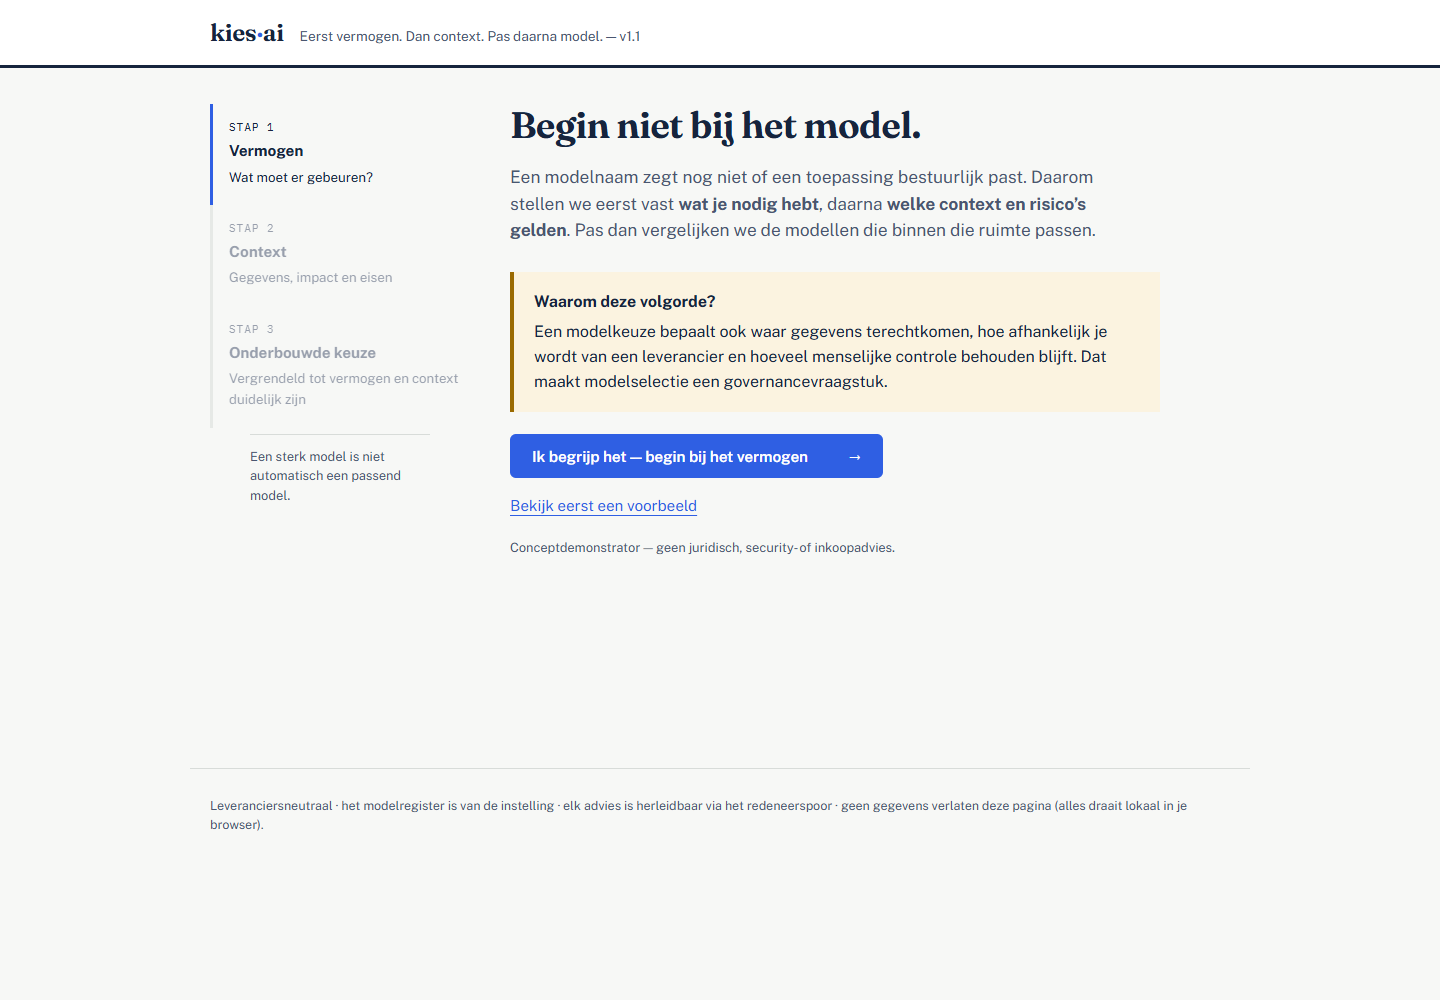
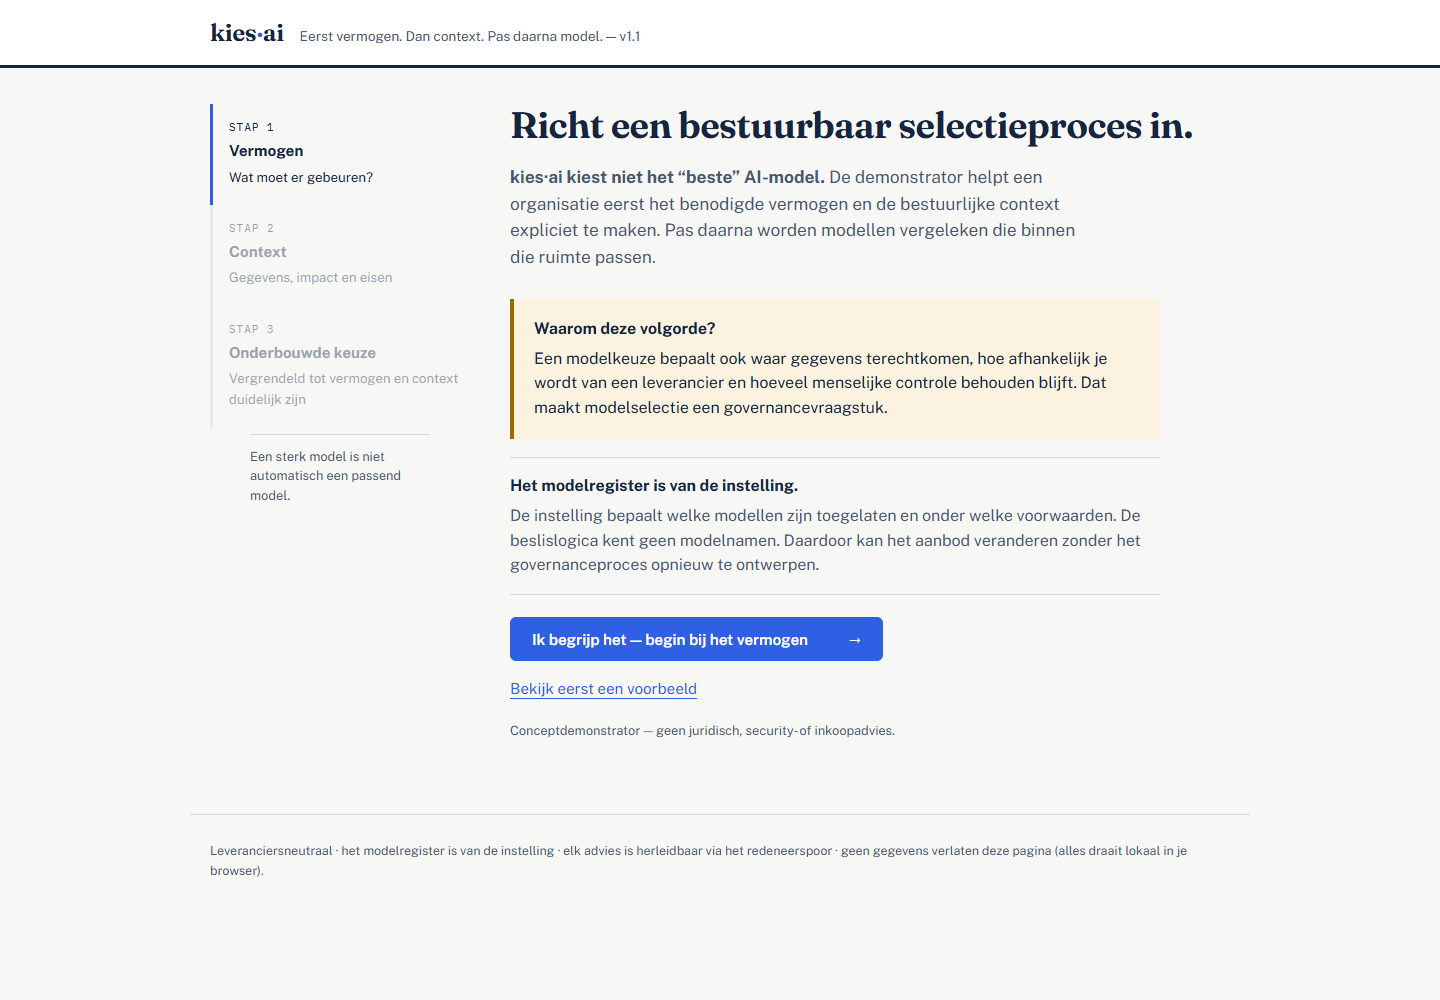
Clarify kies-ai as a governance instrument

Changed region(s): [[0.3438, 0.093, 0.8438, 0.744], [0.125, 0.806, 0.8125, 0.899]]

diff --git a/app.js b/app.js
@@ -62,7 +62,7 @@
   };
 
   function reset() {
-    Object.assign(state, { started: true, domain: null, capability: null, answers: {} });
+    Object.assign(state, { started: true, domain: null, capability: null, answers: {}, showModels: false });
     render();
   }
 
@@ -103,11 +103,15 @@
   function screenIntro() {
     return `
       <div class="onboarding">
-        <h1>Begin niet bij het model.</h1>
-        <p class="lede">Een modelnaam zegt nog niet of een toepassing bestuurlijk past. Daarom stellen we eerst vast <strong>wat je nodig hebt</strong>, daarna <strong>welke context en risico’s gelden</strong>. Pas dan vergelijken we de modellen die binnen die ruimte passen.</p>
+        <h1>Richt een bestuurbaar selectieproces in.</h1>
+        <p class="lede"><strong>kies·ai kiest niet het “beste” AI-model.</strong> De demonstrator helpt een organisatie eerst het benodigde vermogen en de bestuurlijke context expliciet te maken. Pas daarna worden modellen vergeleken die binnen die ruimte passen.</p>
         <section class="learning-band" aria-label="Ontwerpprincipe">
           <strong>Waarom deze volgorde?</strong>
           <p>Een modelkeuze bepaalt ook waar gegevens terechtkomen, hoe afhankelijk je wordt van een leverancier en hoeveel menselijke controle behouden blijft. Dat maakt modelselectie een governancevraagstuk.</p>
+        </section>
+        <section class="register-band">
+          <strong>Het modelregister is van de instelling.</strong>
+          <p>De instelling bepaalt welke modellen zijn toegelaten en onder welke voorwaarden. De beslislogica kent geen modelnamen. Daardoor kan het aanbod veranderen zonder het governanceproces opnieuw te ontwerpen.</p>
         </section>
         ${regErrors.length ? `<div class="warn" role="alert"><strong>Het modelregister kan niet betrouwbaar worden gebruikt.</strong><br>${safe(regErrors[0])} Neem contact op met de registerbeheerder.</div>` : ""}
         <button class="btn-primary btn-large" data-action="start">Ik begrijp het — begin bij het vermogen <span aria-hidden="true">→</span></button>
@@ -201,6 +205,30 @@
       </section>`;
   }
 
+  function modelExplanation(out) {
+    const eliminated = new Map();
+    out.eliminated.forEach((item) => {
+      if (!eliminated.has(item.model)) eliminated.set(item.model, []);
+      eliminated.get(item.model).push(item.reason);
+    });
+    const rows = R.models.map((model) => {
+      if (model.id === out.recommended.model.id) {
+        return `<li><strong>${safe(model.name)}</strong><p>Dit model staat bovenaan binnen de ingevulde voorwaarden.</p></li>`;
+      }
+      const reasons = eliminated.get(model.name);
+      if (reasons) {
+        return `<li><strong>${safe(model.name)}</strong><p><span class="status-out">Afgevallen door een harde filter.</span> ${explainTerms(reasons[0])}</p></li>`;
+      }
+      const rank = out.ranked.findIndex((item) => item.model.id === model.id);
+      return `<li><strong>${safe(model.name)}</strong><p>Door de harde filters gekomen, maar lager gerangschikt${rank >= 0 ? ` op plaats ${rank + 1}` : ""}. Dit is geen verbod: het blijft een alternatief als de open bestuurlijke afweging anders uitvalt.</p></li>`;
+    }).join("");
+    return `
+      <section class="favorite-model">
+        <button class="btn-secondary" data-action="toggle-models" aria-expanded="${state.showModels ? "true" : "false"}">Waarom viel mijn favoriete model af?</button>
+        ${state.showModels ? `<div class="model-explanations"><h2>Zo is ieder geregistreerd model behandeld</h2><p>Zoek hier bijvoorbeeld ChatGPT. Een model kan hard zijn uitgesloten, of wel passen maar lager zijn gerangschikt.</p><ul>${rows}</ul></div>` : ""}
+      </section>`;
+  }
+
   function screenNoResult(out) {
     return `
       <p class="step-label">Stap 3 · bestuurlijke uitkomst</p>
@@ -221,6 +249,15 @@
         <aside class="human-review"><strong>Menselijke toets</strong><p>${explainTerms(E.REVIEW_LABELS[out.humanReview])}</p></aside>
       </div>
       <p class="reflection result-reflection">${state.answers.stakes === "personen" ? "Bij besluiten over personen adviseert AI; de mens beslist." : "Een onderbouwde keuze blijft afhankelijk van juiste context en professioneel oordeel."}</p>
+      <section class="governance-brief">
+        <h2>Bestuurlijke samenvatting</h2>
+        <dl>
+          <div><dt>Waarom deze keuze?</dt><dd>${safe(top.model.strengths[0] || "Past bij het gekozen vermogen en de ingevulde voorwaarden.")}</dd></div>
+          <div><dt>Welke alternatieven vielen af?</dt><dd>${out.eliminated.length ? `${out.eliminated.length} uitsluiting(en) zijn terug te voeren op harde filters.` : "Geen model viel af door een extra governancefilter; de vermogensfit bepaalde de selectie."}</dd></div>
+          <div><dt>Welke regels waren doorslaggevend?</dt><dd>${out.hardFilters.length ? out.hardFilters.map((f) => safe(f.explanation.split(":")[0])).join(", ") : "Alleen het vereiste vermogen werkte als harde grens."}</dd></div>
+          <div><dt>Welke afweging blijft open?</dt><dd>${out.confidence === "laag" ? "Meerdere opties liggen dicht bij elkaar. De organisatie moet prioriteiten en bestaande afspraken expliciet afwegen." : "Bevestig of de context juist is geclassificeerd en of lokale contracten en beleidskaders dit gebruik toestaan."}</dd></div>
+        </dl>
+      </section>
       <div class="result-grid">
         <section><h2>Waarom passend</h2><ul>${top.model.strengths.map((s) => `<li>${safe(s)}</li>`).join("")}</ul></section>
         <section class="risk-summary"><h2>Belangrijkste risico’s</h2><ul>${[...out.risks, ...out.limitations].slice(0, 5).map((r) => `<li>${explainTerms(r)}</li>`).join("")}</ul></section>
@@ -228,6 +265,7 @@
       </div>
       ${out.governance.length || out.privacy.length ? `<section class="governance-summary"><h2>Voorwaarden voor verantwoord gebruik</h2><ul>${[...out.governance, ...out.privacy].map((g) => `<li>${explainTerms(g)}</li>`).join("")}</ul></section>` : ""}
       ${reasoningBlock(out)}
+      ${modelExplanation(out)}
       ${escalationBlock(out)}
       <section class="never-relax"><h2>Wat je nooit zelf mag versoepelen</h2><p>Wettelijke eisen, gegevenslocatie, rechten van betrokkenen, menselijk toezicht, beveiligingsvoorwaarden en verplichte logging. Als geen model past, is “geen AI inzetten” een geldige bestuurlijke uitkomst.</p></section>
       <section class="self-classification"><strong>Kritische beperking</strong><p>Dit advies is alleen zo betrouwbaar als de context die je zelf hebt ingevuld. Controleer de classificatie met de verantwoordelijke rol voordat je de toepassing in gebruik neemt.</p></section>
@@ -259,11 +297,12 @@
     if (action === "intro") state.showExamples = false;
     if (action === "example") {
       const ex = EXAMPLES[el.dataset.id];
-      Object.assign(state, { started: true, showExamples: false, domain: ex.domain, capability: ex.capability, answers: { ...ex.answers } });
+      Object.assign(state, { started: true, showExamples: false, showModels: false, domain: ex.domain, capability: ex.capability, answers: { ...ex.answers } });
     }
     if (action === "domain") state.domain = el.dataset.id;
     if (action === "capability") state.capability = el.dataset.id;
     if (action === "answer") state.answers[el.dataset.q] = el.dataset.id;
+    if (action === "toggle-models") state.showModels = !state.showModels;
     if (action === "reset") return reset();
     if (action === "print") return window.print();
     render();

diff --git a/style.css b/style.css
@@ -91,6 +91,8 @@ h3 { font-size: 1rem; margin: 0 0 8px; }
 .text-button { background: none; border: 0; color: var(--action); display: block; margin-top: 15px; padding: 4px 0; text-decoration: underline; text-underline-offset: 4px; }
 .learning-band { background: var(--amber-bg); border-left: 4px solid var(--amber); margin: 28px 0 4px; max-width: 650px; padding: 18px 20px; }
 .learning-band p { margin: 5px 0 0; }
+.register-band { border-bottom: 1px solid var(--line); border-top: 1px solid var(--line); margin: 18px 0 4px; max-width: 650px; padding: 16px 0; }
+.register-band p { color: var(--ink-60); margin: 5px 0 0; }
 .reflection { border-left: 3px solid var(--action); color: var(--ink); font-family: var(--display); font-size: 1.08rem; margin: 24px 0; padding: 10px 16px; }
 .example-list { border-top: 1px solid var(--line); margin: 24px 0; }
 .example-list .example { align-items: center; border: 0; border-bottom: 1px solid var(--line); border-radius: 0; display: grid; gap: 8px; grid-template-columns: 1.15fr 1.5fr auto; padding: 18px 4px; width: 100%; }
@@ -108,6 +110,12 @@ h3 { font-size: 1rem; margin: 0 0 8px; }
 .human-review { background: var(--amber-bg); border: 1px solid #e7ca87; padding: 18px; }
 .human-review p { margin: 7px 0 0; }
 .result-reflection { margin: 18px 0 28px; }
+.governance-brief { border: 1px solid var(--line); margin-bottom: 24px; padding: 18px; }
+.governance-brief h2 { font-size: 1.35rem; }
+.governance-brief dl { margin: 0; }
+.governance-brief dl > div { border-top: 1px solid var(--line); display: grid; gap: 18px; grid-template-columns: 220px 1fr; padding: 11px 0; }
+.governance-brief dt { font-weight: 700; }
+.governance-brief dd { color: var(--ink-60); margin: 0; }
 .result-grid { display: grid; gap: 12px; grid-template-columns: repeat(3, 1fr); }
 .result-grid section { border-top: 3px solid var(--ink); padding: 16px 4px; }
 .result-grid section.risk-summary { border-top-color: var(--red); }
@@ -136,6 +144,14 @@ summary { color: var(--action); cursor: pointer; font-size: .82rem; font-weight:
 .technical-trace { border-top: 1px solid var(--line); margin-top: 18px; padding-top: 15px; }
 .technical-trace ol { font-family: var(--mono); font-size: .76rem; }
 .technical-trace code { color: var(--action); }
+.favorite-model { margin-top: 22px; }
+.model-explanations { border: 1px solid var(--line); margin-top: 10px; padding: 18px; }
+.model-explanations h2 { font-size: 1.3rem; }
+.model-explanations > p { color: var(--ink-60); }
+.model-explanations ul { list-style: none; margin: 0; padding: 0; }
+.model-explanations li { border-top: 1px solid var(--line); padding: 11px 0; }
+.model-explanations li p { color: var(--ink-60); margin: 3px 0 0; }
+.status-out { color: var(--red); font-weight: 700; }
 .escalation { margin-top: 28px; }
 .escalation-grid { display: grid; gap: 10px; grid-template-columns: repeat(4, 1fr); }
 .escalation-grid > div { border: 1px solid var(--line); padding: 14px; }
@@ -240,6 +256,7 @@ button:focus-visible { outline: 3px solid var(--action); outline-offset: 2px; }
   .actions { align-items: stretch; flex-direction: column; }
   .actions button { width: 100%; }
   .question-explanation, .result-head, .result-grid, .reasoning-columns, .escalation-grid { grid-template-columns: 1fr; }
+  .governance-brief dl > div { grid-template-columns: 1fr; gap: 3px; }
   .example-list .example { align-items: start; grid-template-columns: 1fr; }
   .reasoning { padding: 14px; }
   .term [role="tooltip"] { left: auto; right: 0; }

diff --git a/gen-scenarios.js b/gen-scenarios.js
@@ -120,8 +120,8 @@ scenarios.forEach(([domain, desc, input], idx) => {
 });
 
 lines.push(`\n---\n## Assertieresultaat\n`);
-lines.push(failures.length ? `**${failures.length} SCHENDINGEN:**\n` + failures.join("\n") : "**Alle 100 scenario's doorstaan alle asserties.** Persoonsgegevens komen nooit op VS-cloud terecht, besluiten over personen krijgen altijd 'mens beslist' met AI Act-advies, en bron-eisen leiden altijd naar modellen met herleidbare citaties.");
+lines.push(failures.length ? `**${failures.length} AFWIJKINGEN VAN DE ONTWORPEN LOGICA:**\n` + failures.join("\n") : "**Alle 100 ontworpen testscenario's doorlopen de beslislogica zoals bedoeld.** Binnen deze scenario's worden de drie vooraf gedefinieerde eigenschappen consequent toegepast. Dit bewijst niet dat de governance volledig of in iedere praktijkcontext juist is.");
 
 require("fs").writeFileSync(__dirname + "/scenarios.md", lines.join("\n"));
-console.log(`Klaar: ${scenarios.length} scenario's, ${failures.length} assertie-schendingen.`);
+console.log(`Klaar: ${scenarios.length} ontworpen scenario's, ${failures.length} afwijkingen van de bedoelde beslislogica.`);
 if (failures.length) { console.log(failures.join("\n")); process.exit(1); }

diff --git a/index.html b/index.html
@@ -26,7 +26,7 @@
     <section class="hero" id="waarom">
       <div class="hero-copy">
         <h1>We stellen de<br>verkeerde vraag.</h1>
-        <p>“Welk AI-model zullen we gebruiken?” klinkt praktisch, maar maakt een technische keuze leidend. Terwijl de echte vraag is welke bestuurlijke ruimte, publieke waarden en menselijke correctiecapaciteit een organisatie nodig heeft.</p>
+        <p>Deze demonstrator kiest niet het “beste” model. Hij laat zien hoe organisaties een bestuurbaar selectieproces kunnen inrichten: eerst het benodigde vermogen, dan context en publieke waarden, pas daarna een model uit het eigen instellingsregister.</p>
         <div class="actions"><a class="button primary" href="demo/">Open de demonstrator <span aria-hidden="true">→</span></a><a class="button secondary" href="#governance">Lees het governance-argument <span aria-hidden="true">↓</span></a></div>
         <p class="direct-note">Werkt direct in je browser. Geen account, installatie of gegevensoverdracht.</p>
       </div>

diff --git a/print.html b/print.html
@@ -119,7 +119,7 @@
   <div class="cols">
     <p><strong>Het probleem.</strong> Medewerkers en docenten kiezen AI-modellen ad hoc, op merkbekendheid. Daarmee liggen de facto architectuur-, privacy- en inkoopbesluiten bij individuele gebruikers — onzichtbaar en onherleidbaar.</p>
     <p><strong>De oplossing.</strong> kies·ai ordent drie stappen die nu door elkaar lopen. Eerst: welk vermogen is nodig? Daarna: welke context, risico's en publieke waarden begrenzen de keuze? Pas dan: welk geregistreerd model past binnen die bestuurlijke ruimte?</p>
-    <p><strong>Governance is het mechanisme, geen bijlage.</strong> AVG, AI Act, auteursrecht, inkoop en publieke waarden werken als harde filters vóór de aanbeveling: persoonsgegevens komen nooit op een VS-cloudmodel uit; besluiten over personen krijgen altijd het regime "mens beslist"; herleidbaarheid als eis dwingt broncitaties af. Dit is getest met 100 scenario's en ingebouwde asserties: nul schendingen.</p>
+    <p><strong>Governance is het mechanisme, geen bijlage.</strong> AVG, AI Act, auteursrecht, inkoop en publieke waarden werken als voorwaarden vóór de rangschikking. Alle 100 ontworpen testscenario's doorlopen de beslislogica zoals bedoeld. Dat toetst de implementatie, niet de volledigheid of juistheid van governance in iedere praktijkcontext.</p>
     <p><strong>Uitlegbaar.</strong> Elk advies toont een redeneerspoor met regelnummers (R-AVG-1, R-AIACT-1…): auditbaar voor FG, auditor en accreditatiepanel.</p>
     <p><strong>Soeverein.</strong> Het modelregister is een bestuurlijk asset van de instelling, in eigen beheer. De aanbevelingslogica is leveranciersneutraal; exit-kosten en voetafdruk wegen mee in elke rangschikking. Verdwijnen alle huidige modellen, dan is alleen het register aan vervanging toe.</p>
     <p><strong>Wat het bestuur nu kan doen.</strong> (1) Beleg het registerbeheer bij informatiemanagement. (2) Stel de governance-drempels vast als beleid. (3) Stel de assistent instellingsbreed beschikbaar — hij draait lokaal, zonder installatie, en verzendt geen gegevens.</p>

diff --git a/LINKEDIN.md b/LINKEDIN.md
@@ -1,29 +1,32 @@
 # LinkedIn-bericht
 
-**We stellen de verkeerde vraag over AI-modellen.**
+**We stellen vaak de verkeerde vraag.**
 
-“Welk model moeten we gebruiken?”
+“Welk AI-model moeten we kiezen?”
 
-Die vraag klinkt praktisch. Maar wie een model kiest, kiest óók:
+Volgens mij is dat niet de eerste vraag.
 
-- waar gegevens terechtkomen;
-- welke leverancier macht krijgt;
-- wat nog controleerbaar is;
-- en hoeveel menselijke correctiecapaciteit behouden blijft.
+De eerste vraag is:
 
-Daarom heb ik **kies·ai** ontwikkeld: een open-source conceptdemonstrator voor bestuurbare AI-modelselectie in publieke organisaties.
+**Welk vermogen hebben we nodig?**
 
-De volgorde is bewust anders:
+Pas daarna volgen vragen over privacy, bronherleidbaarheid, AI Act, leveranciersafhankelijkheid en menselijke correctiecapaciteit. En pas helemaal aan het eind komt een model in beeld.
+
+Om dat idee te verkennen heb ik **kies·ai** ontwikkeld: een werkende open-source conceptdemonstrator.
+
+Niet om het “beste model” te kiezen.
+
+Maar om te onderzoeken hoe AI-modelselectie bestuurbaar kan worden ingericht:
 
 **1. Eerst het vermogen** — wat moet er gebeuren?  
 **2. Dan de context** — welke gegevens, publieke waarden, risico’s en eisen gelden?  
 **3. Pas daarna het model** — welke toegelaten optie past binnen die ruimte?
 
-Governance staat dus niet als vinklijst achteraan. Privacy, herleidbaarheid, menselijk toezicht, exit-kosten en duurzaamheid filteren vóór de rangschikking.
+Governance staat niet als vinklijst achteraan. De instelling beheert haar eigen modelregister; de beslislogica kent geen leveranciersnamen. Privacy, herleidbaarheid en menselijk toezicht begrenzen eerst de keuze. Alleen passende opties worden daarna gerangschikt.
 
 Een sterk model is immers niet automatisch een passend model.
 
-Ik ben benieuwd waar dit ontwerp volgens informatiemanagers, architecten, privacyprofessionals en bestuurders nog schuurt. Juist die tegenspraak maakt het beter.
+Ik ben benieuwd hoe anderen hiernaar kijken. Waar schuurt dit ontwerp volgens informatiemanagers, architecten, privacyprofessionals, inkopers en bestuurders?
 
 Probeer de demonstrator: https://ecmw.github.io/kies-ai/demo/
 

diff --git a/README.md b/README.md
@@ -10,6 +10,8 @@ Een modelkeuze bepaalt waar gegevens terechtkomen, welke leverancier macht krijg
 2. **Daarna context** — welke gegevens, publieke waarden, risico’s en institutionele voorwaarden spelen mee?
 3. **Pas daarna model** — welke toegelaten optie past binnen die bestuurlijke ruimte?
 
+De kerninnovatie is het **instellingsregister**: de organisatie beheert zelf welke modellen zijn toegelaten en onder welke voorwaarden. De engine kent geen modelnamen. Daardoor kan het aanbod veranderen zonder het bestuurlijke selectieproces opnieuw te ontwerpen.
+
 [Open de live demonstrator](https://ecmw.github.io/kies-ai/demo/) · [Bekijk de projectsite](https://ecmw.github.io/kies-ai/) · [Lees de verdiepende documentatie](./DOCUMENTATIE.md)
 
 ![De kies·ai-landingspagina: We stellen de verkeerde vraag](screenshots/landing-desktop.png)

diff --git a/scenarios.md b/scenarios.md
@@ -908,4 +908,4 @@ Register: Voorbeeldinstelling (pas aan), versie 2026.07 (9 modellen). Elk scenar
 ---
 ## Assertieresultaat
 
-**Alle 100 scenario's doorstaan alle asserties.** Persoonsgegevens komen nooit op VS-cloud terecht, besluiten over personen krijgen altijd 'mens beslist' met AI Act-advies, en bron-eisen leiden altijd naar modellen met herleidbare citaties.
+**Alle 100 ontworpen testscenario's doorlopen de beslislogica zoals bedoeld.** Binnen deze scenario's worden de drie vooraf gedefinieerde eigenschappen consequent toegepast. Dit bewijst niet dat de governance volledig of in iedere praktijkcontext juist is.